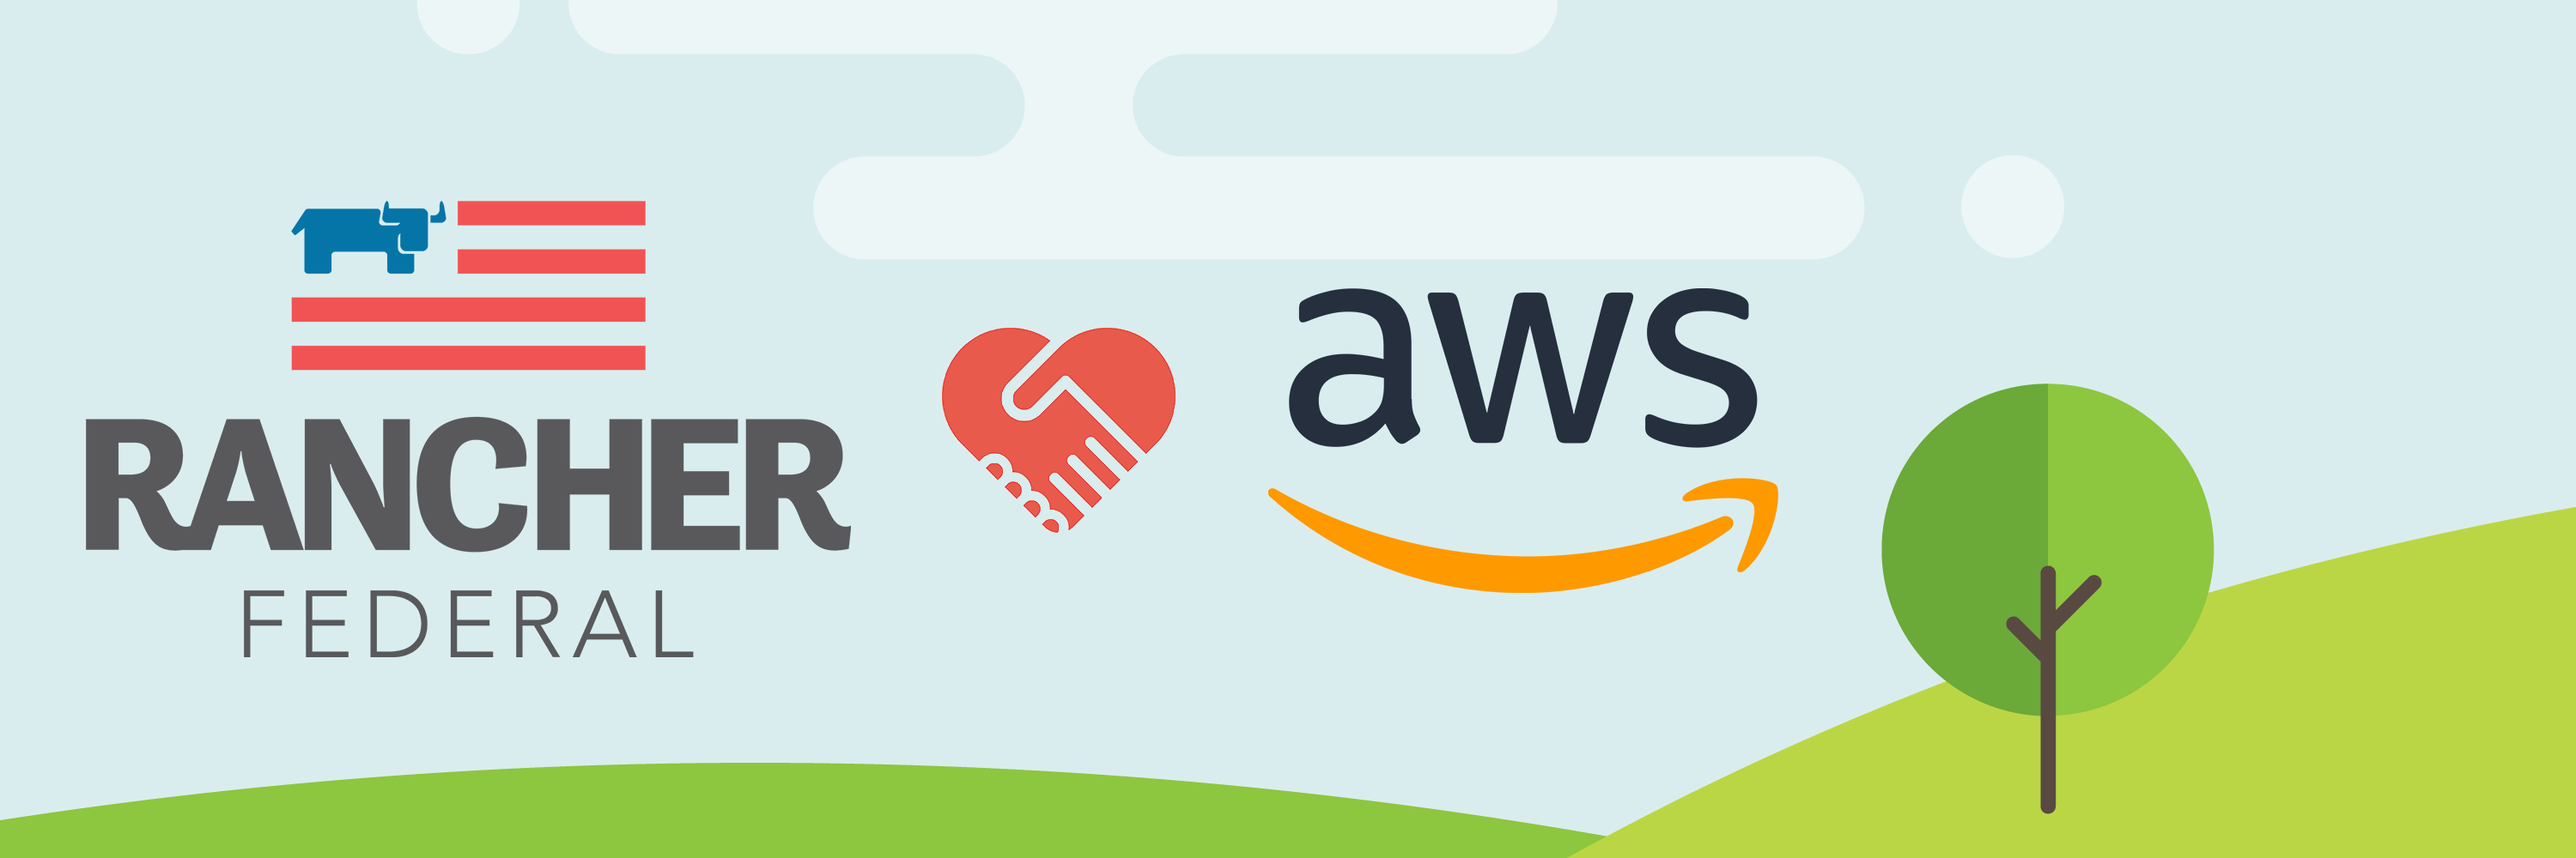
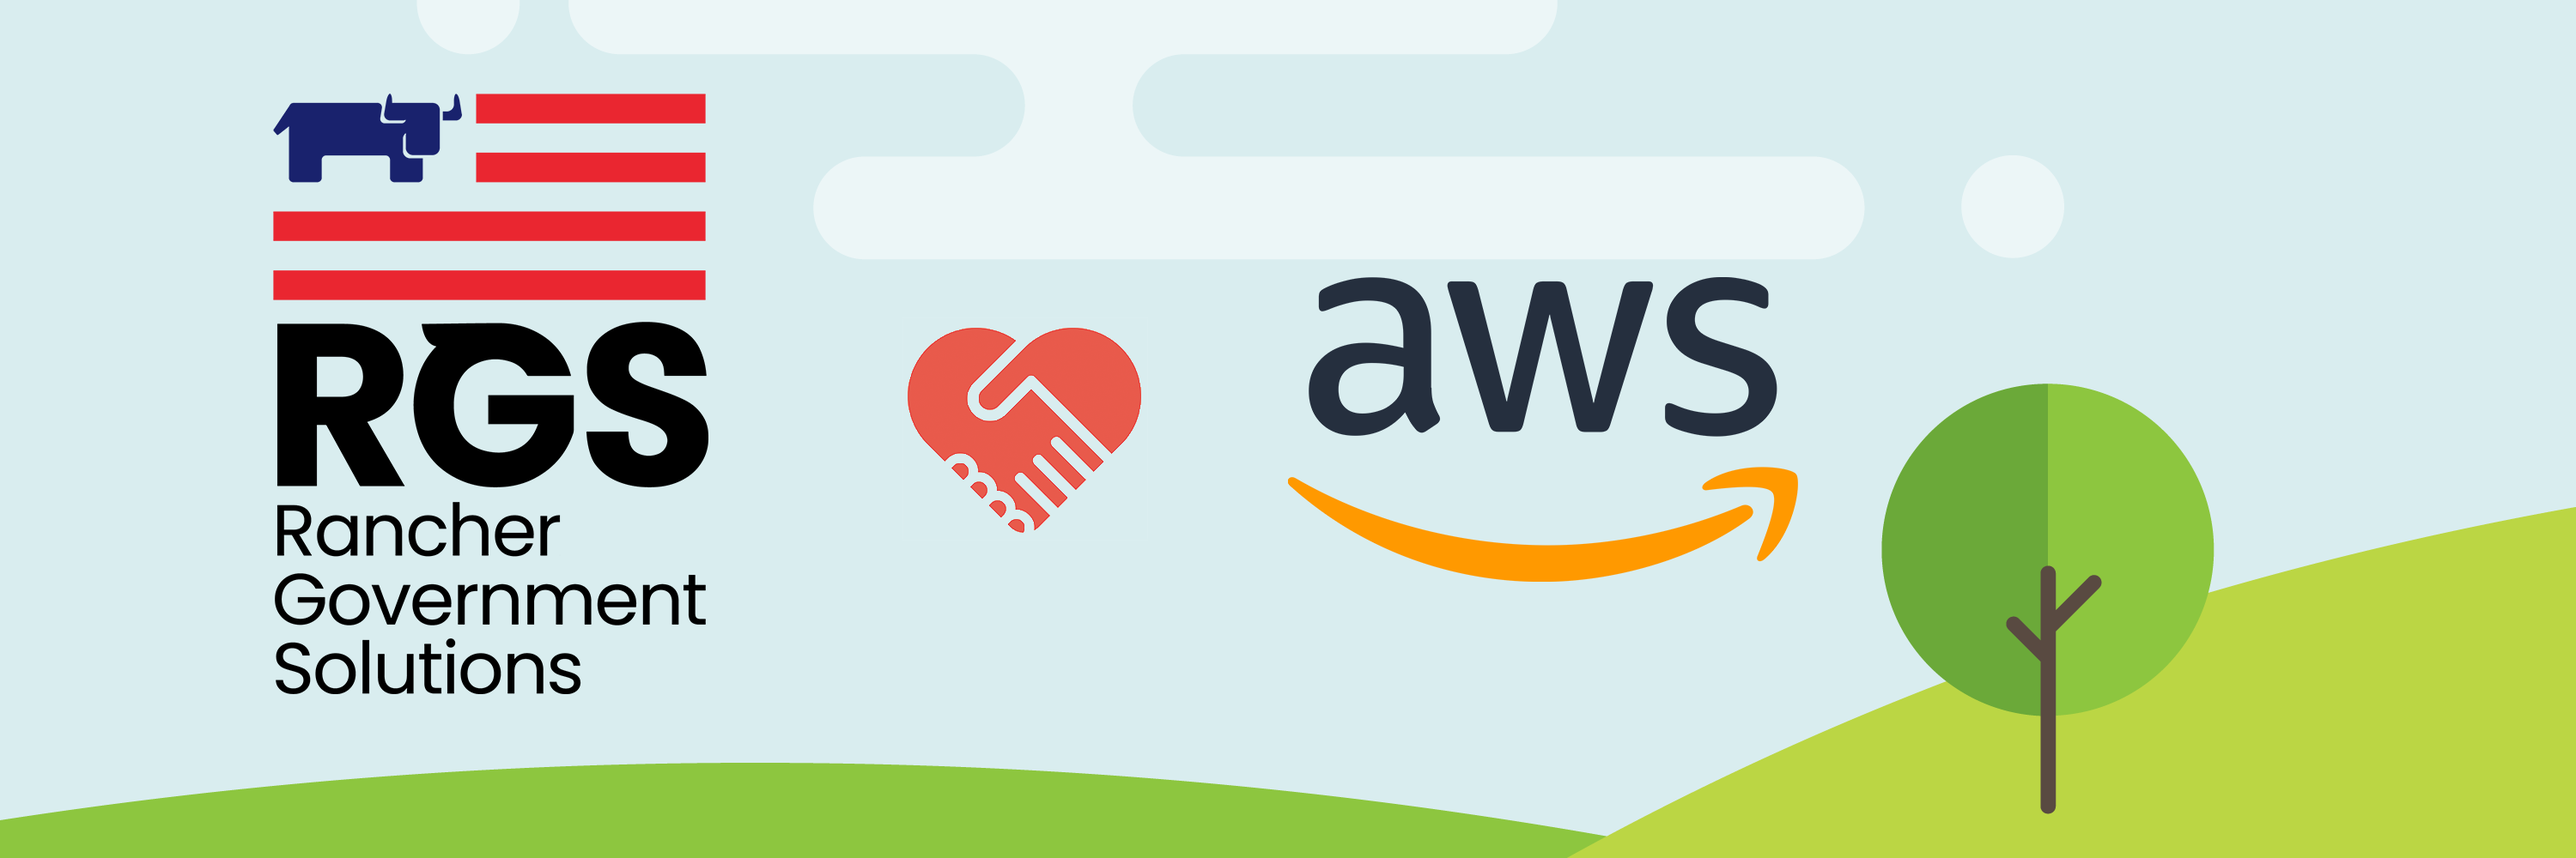
oops updates

Changed region(s): [[0.031, 0.093, 0.465, 0.806], [0.496, 0.31, 0.713, 0.713]]

diff --git a/README.md b/README.md
@@ -47,7 +47,7 @@ Rancher, as a stack, is completely malleable. Meaning, you can pick and choose w
 
 In addition, the Rancher stack is open source, this is important for better transparency for security and code quality. Sounds good, right? How about a "No-Code" deployment of the stack? 
 
-[Rancher Government Solutions](https://ranchergovernment.com/) (RGS) worked with [AWS](https://aws.amazon.com/) to develop a marketplace offering to dramatically reduce the barrier to entry. The offering is a highly available free trial of RKE2 and Rancher Manager by Rancher Government Solutions ([RGS](https://ranchergovernment.com/)), designed for U.S. Federal and Public Sector Customers.
+Rancher Government Solutions (RGS) worked with AWS to develop a marketplace offering to dramatically reduce the barrier to entry. The offering is a highly available free trial of RKE2 and Rancher Manager by Rancher Government Solutions (RGS), designed for U.S. Federal and Public Sector Customers.
 
 
 ## No-Code Deployment
@@ -63,7 +63,7 @@ Here is an architecture overview of the deployment:
 
 ![rancher-arch](images/rancher-architecture.png)
 
-There are a few options and variables you need to set, but behind the scenes, it's an Amazon AWS Cloud Formation ([CF](https://aws.amazon.com/cloudformation/)) template. Currently, it's available at [**http://tryranchergov.com**](http://tryranchergov.com/) and ready to deploy in the Amazon AWS GovCloud ([US](https://aws.amazon.com/govcloud-us/?whats-new-ess.sort-by=item.additionalFields.postDateTime&whats-new-ess.sort-order=desc)) regions of **us-gov-east-1** and **us-gov-west-1**. 
+There are a few options and variables you need to set, but behind the scenes, it's an Amazon AWS Cloud Formation ([CF](https://aws.amazon.com/cloudformation/)) template. Currently, it's available at [**http://tryranchergov.com**](http://tryranchergov.com/) and ready to deploy in the Amazon AWS Gov Cloud regions of **us-gov-east-1** and **us-gov-west-1**. 
 
 Let's walk through the steps.
 
@@ -94,7 +94,7 @@ Here's a quick overview:
 
 We understand there are alternatives out there. There are dozens of Kubernetes distributions and platforms in the Cloud Native Computing Foundation ([CNCF - Kubernetes](https://landscape.cncf.io/card-mode?category=certified-kubernetes-distribution&grouping=category)). It is a good idea to lean towards the open-source versions.
 
-Clearly, there are some obvious leaders. When reviewing a managed Kubernetes solution, Amazon Elastic Kubernetes Service ([EKS](https://aws.amazon.com/eks/)) stands out as the best option. [AWS](https://aws.amazon.com/) has been a leader in the cloud ecosystem for years and years. 
+Clearly, there are some obvious leaders. When reviewing a managed Kubernetes solution, Amazon Elastic Kubernetes Service ([EKS](https://aws.amazon.com/eks/)) stands out as the best option. AWS has been a leader in the cloud ecosystem for years and years. 
 
 One clear advantage of using [Amazon EC2](https://aws.amazon.com/ecs/) with [Rancher](https://rancher.com/) over [Amazon EKS](https://aws.amazon.com/eks/), is that it is a virtual machine (VM) platform that provides redundancy with region specific datacenters and the Rancher Manager. This allows you to have a ton of flexibility to deploy what you need, where you need it.
 
@@ -105,6 +105,6 @@ After exploring the No-Code Deployment of the Rancher Stack, you can see there a
 
 ![rancher-catalog](images/rancher-catalog.png)
 
-For investigating infrastructure strategies and exploring Kubernetes, the team at [RGS](https://ranchergovernment.com/)  is uniquely positioned to help your teams. RGS has the experience and history within the government and public sector and has been improving the security posture of the Rancher Stack for years. RGS also has the pleasure of guiding our government and public sector customers in deploying the Rancher Stack, anywhere and everywhere, leaving you to focus on your mission. 
+For investigating infrastructure strategies and exploring Kubernetes, the team at [Rancher Government Solutions (RGS)](https://ranchergovernment.com/)  is uniquely positioned to help your teams. RGS has the experience and history within the government and public sector and has been improving the security posture of the Rancher Stack for years. RGS also has the pleasure of guiding our government and public sector customers in deploying the Rancher Stack, anywhere and everywhere, leaving you to focus on your mission. 
 
-Combining [Amazon AWS](https://aws.amazon.com/) and [Rancher](https://rancher.com/), with the assistance of Rancher Government Solutions, creates a force multiplier. Please reach out to see how we can extend this experience to your missions and teams!
+Combining [Rancher](https://rancher.com/) and [Amazon AWS](https://aws.amazon.com/), with the assistance of Rancher Government Solutions, creates a force multiplier. Please reach out to see how we can extend this experience to your missions and teams!
